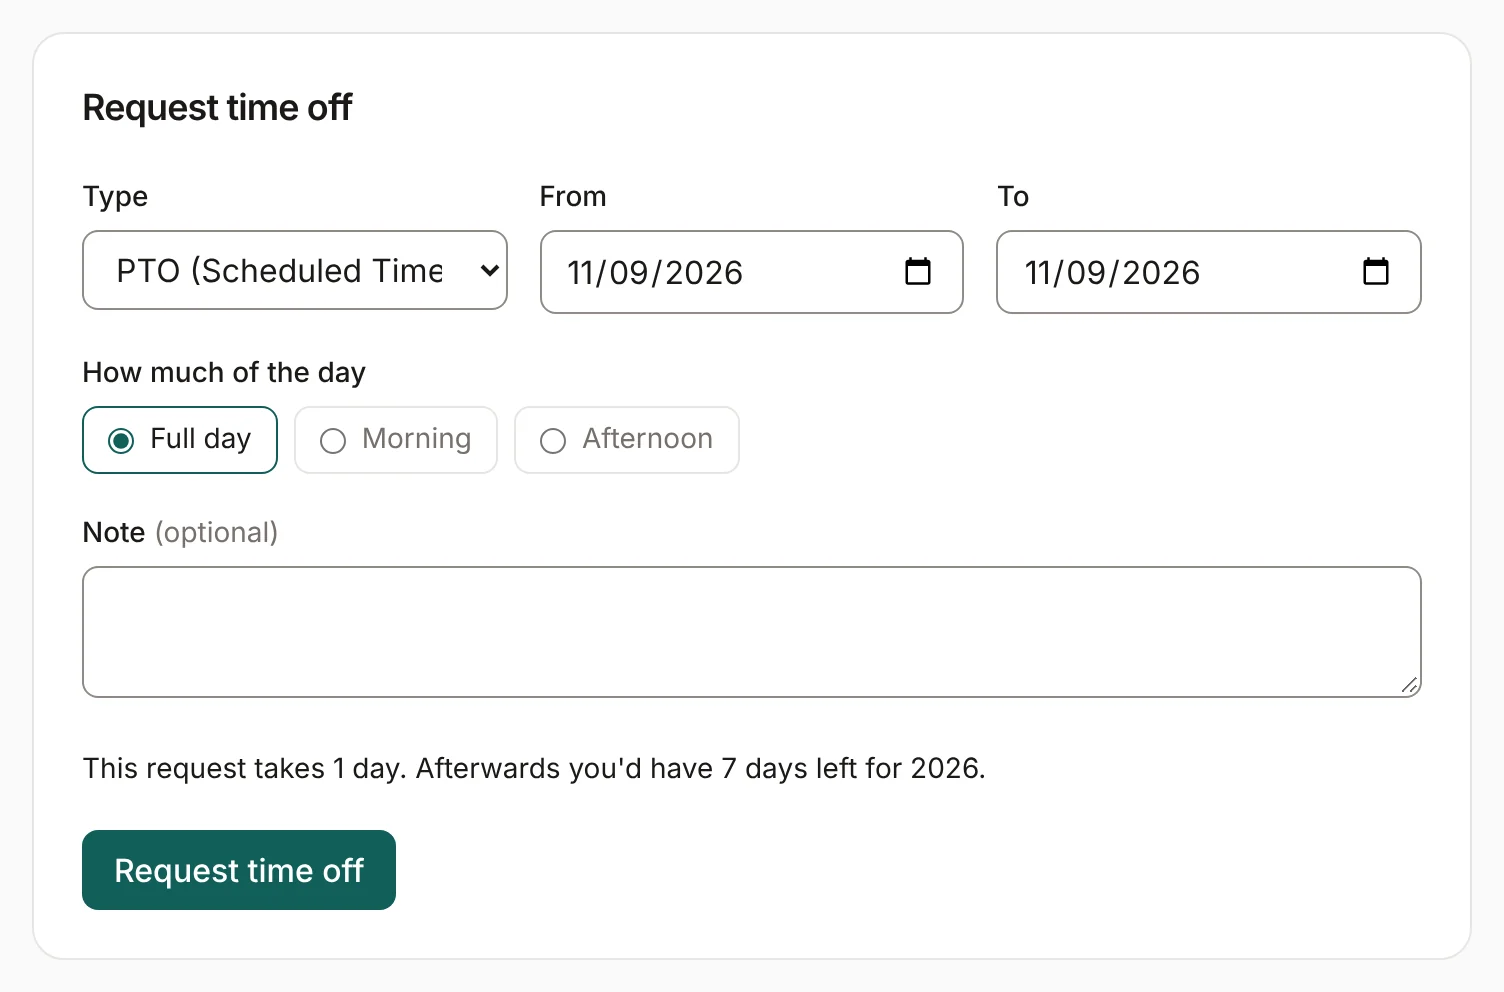
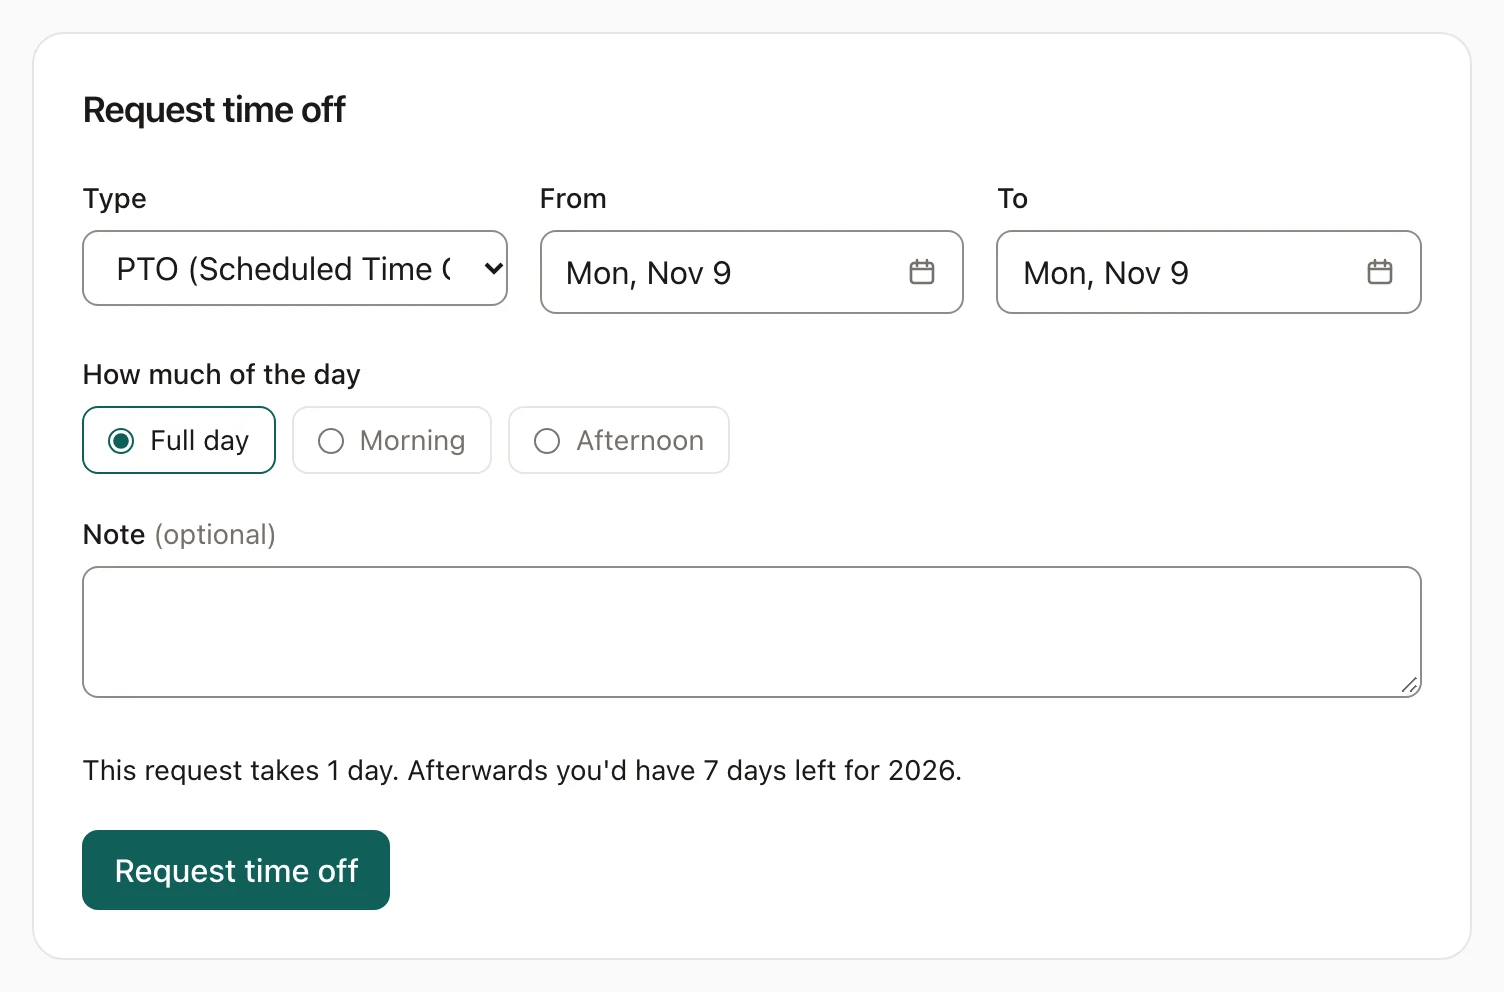
Guide: retake the request form shots with the themed date fields
#95 replaced the form's native date inputs with the themed calendar, after these
two shots were taken (request-form, request-heads-up). Retaken with
docs-screens.mjs on the demo data, and the form section now says From and To open
the same calendar as the sentence. Merges main (#95, #97).

Claude-Session: https://claude.ai/code/session_016RMCHbbBmTsfJrb3ewutoK

diff --git a/site/docs/asking-for-time-off.html b/site/docs/asking-for-time-off.html
@@ -43,7 +43,7 @@
 <p>Each date opens a calendar. Pick a day, or type it as YYYY-MM-DD in the field at the top. The arrow keys move between days and Enter picks one.</p>
 <figure><img src="images/request-date-picker.webp" alt="The date picker, open on the first day" width="1000" height="700" loading="lazy" decoding="async"><figcaption>The date picker, open on the first day</figcaption></figure>
 <h3 id="the-form"><a class="anchor" href="#the-form">The form</a></h3>
-<p>The form asks the same things as labelled fields: Type, From, To, How much of the day (Full day, Morning or Afternoon) and an optional Note.</p>
+<p>The form asks the same things as labelled fields: Type, From, To, How much of the day (Full day, Morning or Afternoon) and an optional Note. From and To open the same calendar as the sentence.</p>
 <figure><img src="images/request-form.webp" alt="The request form" width="752" height="496" loading="lazy" decoding="async"><figcaption>The request form</figcaption></figure>
 <h3 id="what-the-request-tells-you-before-you-send-it"><a class="anchor" href="#what-the-request-tells-you-before-you-send-it">What the request tells you before you send it</a></h3>
 <p>As you choose, a line under the request says what it would cost: <em>This request takes 3 days. Afterwards you'd have 5 days left for 2026.</em> Weekends, other non-working days and company holidays never count. If the request can't be sent (it overlaps time off you already have, or it would take more than you have left), the line says why, in red.</p>
@@ -51,7 +51,7 @@
 <p><strong>Send request</strong> sends it to your approver: your manager, else your department's manager, else an admin. They get an email, and the request shows as <em>Waiting for approval</em> until they decide. If you approve your own requests (an admin sets this per person), it's approved as soon as you send it.</p>
 <h3 id="when-your-company-doesnt-ask-for-approval"><a class="anchor" href="#when-your-company-doesnt-ask-for-approval">When your company doesn't ask for approval</a></h3>
 <p>If an admin set approval to <strong>Just let us know</strong> (Admin → Company), the request becomes <strong>Book time off</strong>: it's booked as soon as you send it, and your manager (or an admin) gets a <a href="emails.html#heads-up">heads-up email</a> instead of a request.</p>
-<figure><img src="images/request-heads-up.webp" alt="Book time off, when approval is turned off" width="752" height="556" loading="lazy" decoding="async"><figcaption>Book time off, when approval is turned off</figcaption></figure>
+<figure><img src="images/request-heads-up.webp" alt="Book time off, when approval is turned off" width="752" height="536" loading="lazy" decoding="async"><figcaption>Book time off, when approval is turned off</figcaption></figure>
 <h2 id="your-balance"><a class="anchor" href="#your-balance">Your balance</a></h2>
 <p>Under the request, a card for each leave type shows what you have left this year, out of how many, and how many are used or waiting for approval. One square is one day: filled is taken, striped is waiting for approval, empty is left.</p>
 <figure><img src="images/balance.webp" alt="Balance cards" width="752" height="416" loading="lazy" decoding="async"><figcaption>Balance cards</figcaption></figure>

diff --git a/docs/guide/asking-for-time-off.md b/docs/guide/asking-for-time-off.md
@@ -31,7 +31,7 @@ keys move between days and Enter picks one.
 ### The form
 
 The form asks the same things as labelled fields: Type, From, To, How much of the day (Full day,
-Morning or Afternoon) and an optional Note.
+Morning or Afternoon) and an optional Note. From and To open the same calendar as the sentence.
 
 ![The request form](../../site/docs/images/request-form.webp)
 
